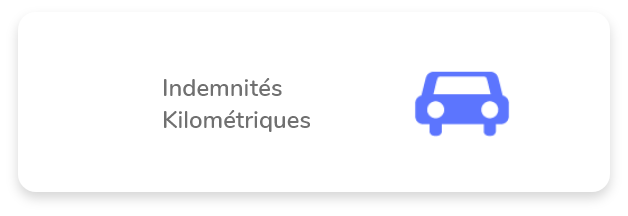
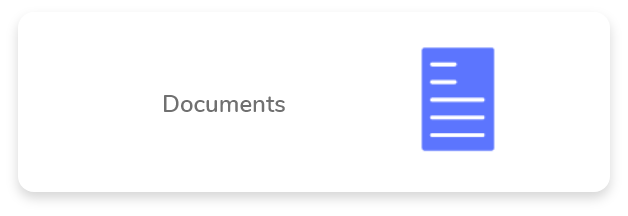
deposer facture page

Changed region(s): [[0.6354, 0.1944, 0.8169, 0.7222], [0.242, 0.3611, 0.5143, 0.6111]]

diff --git a/src/screens/UploadFacture/UploadScreen.js b/src/screens/UploadFacture/UploadScreen.js
@@ -1,17 +1,14 @@
 /*This is an example of File Picker in React Native*/
 import React, {createRef} from 'react';
-import {
-  StyleSheet,
-  Text,
-  View,
-  TouchableOpacity,
-  Modal,
-
-} from 'react-native';
-import styles from "./styles"
-import {Button,Image} from 'react-native-elements';
+import {ScrollView, Text, View, TouchableHighlight,ImageBackground,Image} from 'react-native';
 import ActionSheet from 'react-native-actionsheet';
 import ImagePicker from 'react-native-image-picker';
+import Achat from '../../../assets/images/Achats.png';
+import AvanceDeFrais from '../../../assets/images/AvanceDeFrais.png';
+import Document from '../../../assets/images/Document.png';
+import Indemnite from '../../../assets/images/Indemnite.png';
+import Background from '../../../assets/images/backgroung_depose_facture.png';
+import styles from "./styles"
 
 var optionArray = [
   'chooseImage',
@@ -37,13 +34,9 @@ export default class ExpensesScreen extends React.Component {
 
   setTypeFacture = (typeFacture) => {
     this.setState({typeFacture});
-    this.setModalVisible();
     this.actionSheet.current.show();
   };
 
-  setModalVisible = () => {
-    this.setState({showModal: !this.state.showModal});
-  };
   chooseImage = () => {
     let options = {
       title: 'Select Image',
@@ -139,7 +132,7 @@ export default class ExpensesScreen extends React.Component {
     });
   };
 
- /* renderFileData() {
+  /* renderFileData() {
     if (this.state.fileData) {
       return (
         <Image
@@ -157,90 +150,70 @@ export default class ExpensesScreen extends React.Component {
 
   renderFileUri() {
     if (this.state.fileUri) {
-      return <Image source={{uri: this.state.fileUri}} style={styles.images} />;
+      return <Image source={{uri: this.state.fileUri}} />;
     } else {
-      return (
-        <Image
-          source={require('../../../assets/icons/backArrow.png')}
-        />
-      );
+      return <Image source={require('../../../assets/icons/backArrow.png')} />;
     }
   }
 
   render() {
     return (
-      <View style={styles.containerStyle}>
-        <Text
-          style={{
-            color: '#54aed6',
-            fontSize: 35,
-            fontWeight: 'bold',
-            textAlign: 'center',
-            marginTop: 60,
-            marginBottom: 60,
-          }}>
-          Facnote
-        </Text>
-        <TouchableOpacity
-          activeOpacity={0.5}
-          style={styles.buttonStyle}
-          onPress={() => this.setModalVisible()}>
-          {/*Multiple files selection button*/}
-          <Text
-            style={{
-              color: '#54aed6',
-              fontSize: 35,
-              fontWeight: 'bold',
-              textAlign: 'center',
-              marginTop: 60,
-              marginBottom: 60,
-            }}>
-            Appuyer ici pour sélectionner les factures d' achat a envoyer
-          </Text>
-        </TouchableOpacity>
-
-        {this.renderFileUri()}
-        <ActionSheet
-          ref={this.actionSheet}
-          // Title of the Bottom Sheet
-          title={'Which one do you like ?'}
-          // Options Array to show in bottom sheet
-          options={optionArray}
-          // Define cancel button index in the option array
-          // This will take the cancel option in bottom
-          // and will highlight it
-          cancelButtonIndex={4}
-          // Highlight any specific option
-          destructiveButtonIndex={1}
-          onPress={(index) => {
-            // Clicking on the option will give you alert
-
-            if (optionArray[index] == 'launchImageLibrary')
-              this.launchImageLibrary();
-            if (optionArray[index] == 'chooseImage') this.chooseImage();
-            if (optionArray[index] == 'launchCamera') this.launchCamera();
-          }}
-        />
-        <Modal
-          animationType="slide"
-          transparent={true}
-          visible={this.state.showModal}
-          onRequestClose={() => {}}>
-          <View style={styles.centeredView}>
-            <View style={styles.modalView}>
-              <Button
-                onPress={() => this.setTypeFacture(1)}
-                title="Avance de frais"
-                type="clear"></Button>
-              <Button
-                onPress={() => this.setTypeFacture(2)}
-                title="Achat"
-                type="clear"></Button>
-            </View>
+      <ScrollView>
+        <View style={styles.containerStyle}>
+          <ImageBackground
+            source={Background}
+            style={styles.backgroundStyle}></ImageBackground>
+          <View style={styles.titleContainer}>
+            <Text style={styles.title}>Nom de la Société</Text>
           </View>
-        </Modal>
-      </View>
+          <TouchableHighlight
+            style={styles.btnContainer}
+            onPress={() => this.setTypeFacture(1)}
+            underlayColor="rgba(73,182,77,1,0.9)">
+            <Image style={styles.Img} source={Achat} />
+          </TouchableHighlight>
+          <View
+            style={styles.btnContainer}
+            onPress={() => this.setTypeFacture(1)}
+            underlayColor="rgba(73,182,77,1,0.9)">
+            <Image style={styles.Img} source={Indemnite} />
+          </View>
+          <TouchableHighlight
+            style={styles.btnContainer}
+            onPress={() => this.setTypeFacture(1)}
+            underlayColor="rgba(73,182,77,1,0.9)">
+            <Image style={styles.Img} source={Document} />
+          </TouchableHighlight>
+          <TouchableHighlight
+            style={styles.btnContainer}
+            onPress={() => this.setTypeFacture(1)}
+            underlayColor="rgba(73,182,77,1,0.9)">
+            <Image style={styles.Img} source={AvanceDeFrais} />
+          </TouchableHighlight>
+          {this.renderFileUri()}
+          <ActionSheet
+            ref={this.actionSheet}
+            // Title of the Bottom Sheet
+            title={'Which one do you like ?'}
+            // Options Array to show in bottom sheet
+            options={optionArray}
+            // Define cancel button index in the option array
+            // This will take the cancel option in bottom
+            // and will highlight it
+            cancelButtonIndex={4}
+            // Highlight any specific option
+            destructiveButtonIndex={1}
+            onPress={(index) => {
+              // Clicking on the option will give you alert
+
+              if (optionArray[index] == 'launchImageLibrary')
+                this.launchImageLibrary();
+              if (optionArray[index] == 'chooseImage') this.chooseImage();
+              if (optionArray[index] == 'launchCamera') this.launchCamera();
+            }}
+          />
+        </View>
+      </ScrollView>
     );
   }
 }
-

diff --git a/src/screens/UploadFacture/styles.js b/src/screens/UploadFacture/styles.js
@@ -1,103 +1,37 @@
 /* eslint-disable comma-dangle */
-import { StyleSheet, Dimensions } from 'react-native';
-import { expenses } from '../../AppStyles';
-const { width, height } = Dimensions.get('window');
+import {StyleSheet, Dimensions} from 'react-native';
+import ScaleHelpers from '../../components/scaleHelpers';
+
+const {width, height} = Dimensions.get('window');
 const SCREEN_WIDTH = width < height ? width : height;
 
 const styles = StyleSheet.create({
-  btnClickContain: {
-    flex: 1,
-    justifyContent: 'center',
-    alignSelf: 'center',
-    backgroundColor: '#54d66a',
-    color: 'white',
-    borderRadius: 5,
-    padding: 15,
-    marginTop: 80,
-    marginBottom: 80,
-  },
-  ImageSections: {
-    display: 'flex',
-    flexDirection: 'row',
-    paddingHorizontal: 8,
-    paddingVertical: 8,
-    justifyContent: 'center',
-  },
-  btnContainer: {
-    flex: 1,
-    flexDirection: 'row',
-    justifyContent: 'center',
-    alignItems: 'stretch',
-    alignSelf: 'center',
-    borderRadius: 10,
-  },
-  btnIcon: {
-    height: 25,
-    width: 25,
-  },
-  btnText: {
-    fontSize: 18,
-    color: '#FAFAFA',
-    marginLeft: 10,
-    marginTop: 2,
-  },
   containerStyle: {
     flex: 1,
-    padding: 16,
   },
-  ImageSections: {
-    display: 'flex',
-    flexDirection: 'row',
-    paddingHorizontal: 8,
-    paddingVertical: 8,
+  backgroundStyle: {
+    width: ScaleHelpers.CalcWidth(100),
+    height: "100%",
+    position: 'absolute',
+  },
+  titleContainer: {
     justifyContent: 'center',
+    height: ScaleHelpers.CalcHeight(27),
   },
-  images: {
-    width: 150,
-    height: 150,
-    borderColor: 'black',
-    borderWidth: 1,
-    marginHorizontal: 3,
-  },
-  buttonStyle: {
-    alignItems: 'center',
-    flexDirection: 'row',
-    backgroundColor: '#fff',
-    borderColor: 'black',
-    borderWidth: 1,
-    padding: 5,
-  },
-  centeredView: {
-    flex: 1,
-    justifyContent: 'center',
-    alignItems: 'center',
-    marginTop: 22,
-  },
-  modalView: {
-    margin: 20,
-    backgroundColor: 'white',
-    borderRadius: 20,
-    padding: 35,
-    alignItems: 'center',
-    shadowColor: '#000',
-    shadowOffset: {
-      width: 0,
-      height: 2,
-    },
-    shadowOpacity: 0.25,
-    shadowRadius: 3.84,
-    elevation: 5,
-  },
-  openButton: {
-    backgroundColor: '#F194FF',
-    borderRadius: 20,
-    padding: 10,
-    elevation: 2,
-  },
-
-  modalText: {
-    marginBottom: 15,
+  title: {
+    fontFamily: 'Nunito-ExtraBold',
     textAlign: 'center',
+    color: 'rgb(112,112,112)',
+    fontSize: ScaleHelpers.CalcHeight(4),
+  },
+  btnContainer: {
+    marginTop: ScaleHelpers.CalcHeight(3),
+    alignSelf: 'center',
+    justifyContent: 'center',
+  },
+  Img: {
+    width: ScaleHelpers.CalcWidth(80),
+    height: ScaleHelpers.CalcHeight(20),
   },
 });
 

diff --git a/src/screens/Profile/styles.js b/src/screens/Profile/styles.js
@@ -64,7 +64,9 @@ const styles = StyleSheet.create({
     // its for android
     elevation: 5,
     position: 'relative',
-    marginTop: ScaleHelpers.CalcHeight(4),
+    marginTop: ScaleHelpers.CalcHeight(3),
+    marginBottom: ScaleHelpers.CalcHeight(1),
+
     width: ScaleHelpers.CalcWidth(70),
     borderRadius: 10,
     backgroundColor: 'rgb( 255,255,255)',
@@ -77,7 +79,7 @@ const styles = StyleSheet.create({
   btnTxt: {
     fontFamily: 'Nunito-Light',
     fontSize: 15,
-    color: '#070f12',
+    color: 'rgb(112 ,112, 112)',
     textAlign: 'center',
   },
 });
